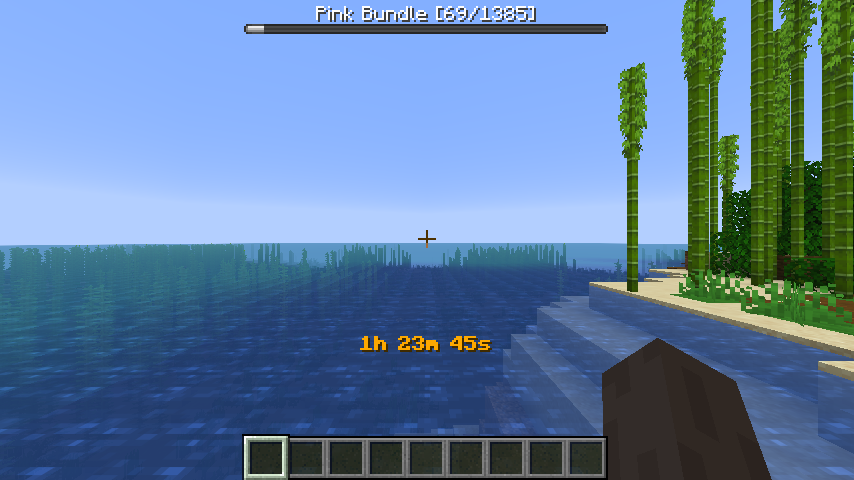
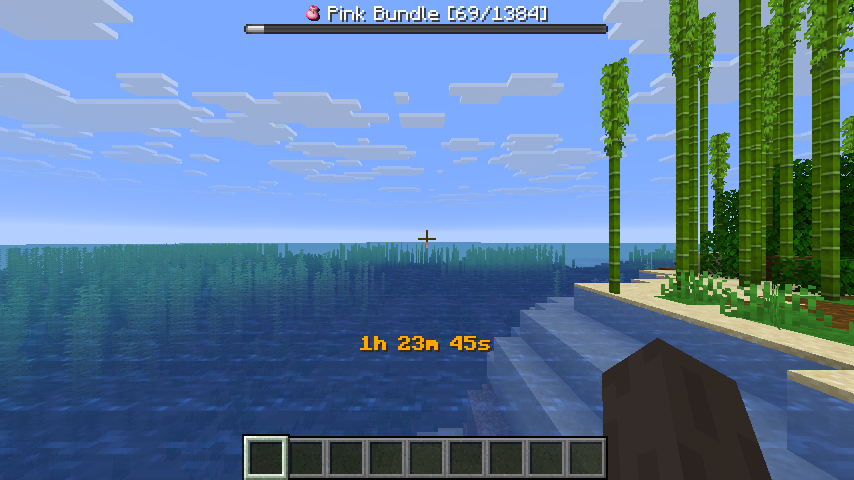
Release 1.3+1.21.11

diff --git a/src/main/java/x170/all_items/command/AllItemsCommand.java b/src/main/java/x170/all_items/command/AllItemsCommand.java
@@ -1,0 +1,94 @@
+package x170.all_items.command;
+
+import com.google.gson.JsonElement;
+import com.google.gson.JsonParser;
+import com.mojang.brigadier.CommandDispatcher;
+import com.mojang.serialization.JsonOps;
+import net.minecraft.commands.CommandBuildContext;
+import net.minecraft.commands.CommandSourceStack;
+import net.minecraft.commands.Commands;
+import net.minecraft.core.Holder;
+import net.minecraft.network.chat.Component;
+import net.minecraft.server.dialog.Dialog;
+import net.minecraft.server.level.ServerPlayer;
+import net.minecraft.world.item.Item;
+import x170.all_items.AllItems;
+import x170.all_items.game.GameManager;
+
+import java.util.ArrayList;
+
+public class AllItemsCommand {
+    public static void register(CommandDispatcher<CommandSourceStack> dispatcher, CommandBuildContext commandBuildContext, Commands.CommandSelection commandSelection) {
+        dispatcher.register(Commands.literal("all-items")
+                .executes(context -> execute(context.getSource()))
+        );
+    }
+
+    private static int execute(CommandSourceStack source) {
+        ServerPlayer player = source.getPlayer();
+        // Send error message if the command was called by a non-player
+        if (player == null) {
+            source.sendFailure(Component.literal("Only players can use this command"));
+            return 0;
+        }
+
+        String dialogJSON = buildItemDialogJson(AllItems.CONFIG.obtainedItems);
+
+        try {
+            JsonElement json = JsonParser.parseString(dialogJSON);
+            Holder<Dialog> dialog = Dialog.CODEC.parse(JsonOps.INSTANCE, json).getOrThrow();
+            player.openDialog(dialog);
+        } catch (Exception e) {
+            source.sendFailure(Component.literal("Failed to open dialog: " + e.getMessage()));
+            return 0;
+        }
+
+        return 1;
+    }
+
+    private static String buildItemDialogJson(ArrayList<Item> items) {
+        StringBuilder bodyBuilder = new StringBuilder();
+
+        for (int i = 0; i < items.size(); i++) {
+            Item item = items.get(i);
+
+            bodyBuilder.append("""
+                    {
+                      "type": "minecraft:item",
+                      "item": {
+                        "id": "%s"
+                      },
+                      "description": {
+                        "translate": "%s",
+                        "hover_event": {
+                            "action": "show_text",
+                            "value": "Item %d"
+                        }
+                      }
+                    },
+                    
+                    """.formatted(
+                    item.toString(),
+                    item.getDescriptionId(),
+                    i + 1
+            ));
+        }
+
+        String body = bodyBuilder.toString();
+        if (!body.isEmpty()) body = body.substring(0, body.length() - 3); // Remove last comma and newline
+
+        return """
+                {
+                  "type": "minecraft:notice",
+                  "title": "All-Items: Obtained Items [%d/%d]",
+                  "body": [
+                    %s
+                  ]
+                }
+                """.formatted(
+                AllItems.CONFIG.obtainedItems.size(),
+                GameManager.getTotalItemCount(),
+                body
+        );
+    }
+}

diff --git a/src/main/java/x170/all_items/game/GameManager.java b/src/main/java/x170/all_items/game/GameManager.java
@@ -124,10 +124,14 @@ public abstract class GameManager {
         Component bossBarName = getItemSprite(AllItems.CONFIG.activeItem).copy()
                 .append(Component.translatable(AllItems.CONFIG.activeItem.getDescriptionId()))
                 .append(Component.literal(additionalInfo))
-                .append(Component.literal(" [" + (AllItems.CONFIG.obtainedItems.size()) + "/" + (AllItems.CONFIG.obtainedItems.size() + unobtainedItems.size()) + "]"));
+                .append(Component.literal(" [" + AllItems.CONFIG.obtainedItems.size() + "/" + getTotalItemCount() + "]"));
 
         bossBar.setName(bossBarName);
-        bossBar.setProgress((float) AllItems.CONFIG.obtainedItems.size() / (AllItems.CONFIG.obtainedItems.size() + unobtainedItems.size()));
+        bossBar.setProgress((float) AllItems.CONFIG.obtainedItems.size() / getTotalItemCount());
+    }
+
+    public static int getTotalItemCount() {
+        return AllItems.CONFIG.obtainedItems.size() + unobtainedItems.size() + (AllItems.CONFIG.activeItem != null ? 1 : 0);
     }
 
     private static void playSoundToAllPlayers(SoundEvent soundEvent) {
@@ -151,7 +155,7 @@ public abstract class GameManager {
 
     private static void showTimerToAllPlayers() {
         // Show the timer in every player's actionbar
-        Component text = Component.literal(Timer.getTimeString()).withStyle(ChatFormatting.GOLD, ChatFormatting.BOLD);
+        Component text = Component.literal(Timer.getTimeString()).withStyle(Timer.isPaused() ? ChatFormatting.RED : ChatFormatting.GOLD, ChatFormatting.BOLD);
         AllItems.SERVER.getPlayerList().getPlayers().forEach(
                 player -> player.displayClientMessage(text, true)
         );

diff --git a/src/main/java/x170/all_items/AllItems.java b/src/main/java/x170/all_items/AllItems.java
@@ -9,6 +9,7 @@ import net.minecraft.core.registries.BuiltInRegistries;
 import net.minecraft.server.MinecraftServer;
 import org.slf4j.Logger;
 import org.slf4j.LoggerFactory;
+import x170.all_items.command.AllItemsCommand;
 import x170.all_items.command.TimerCommand;
 import x170.all_items.config.GameConfig;
 import x170.all_items.event.PlayerInventoryChangedCallback;
@@ -28,10 +29,12 @@ public class AllItems implements ModInitializer {
                 BuiltInRegistries.ITEM.stream()
                         .filter(item -> !CONFIG.obtainedItems.contains(item))
                         .filter(item -> !CONFIG.unobtainableItems.contains(item))
+                        .filter(item -> !item.equals(CONFIG.activeItem))
                         .toList()
         );
 
         CommandRegistrationCallback.EVENT.register(TimerCommand::register);
+        CommandRegistrationCallback.EVENT.register(AllItemsCommand::register);
         PlayerInventoryChangedCallback.EVENT.register(GameManager::checkItem);
 
         ServerLifecycleEvents.SERVER_STARTED.register(this::onServerStarted);

diff --git a/src/main/java/x170/all_items/config/GameConfig.java b/src/main/java/x170/all_items/config/GameConfig.java
@@ -36,6 +36,7 @@ public class GameConfig {
         add(Items.COMMAND_BLOCK_MINECART);
         add(Items.COMMAND_BLOCK);
         add(Items.DEBUG_STICK);
+        add(Items.DIRT_PATH);
         add(Items.END_PORTAL_FRAME);
         add(Items.FARMLAND);
         add(Items.FROGSPAWN);

diff --git a/README.md b/README.md
@@ -16,7 +16,12 @@ The mod is multiplayer compatible and designed to be played on a multiplayer ser
 
 ## Commands
 
+- `/all-items` - Show all obtained items in a custom dialog (see below)
 - `/timer` - Pause or resume the game timer
+
+## All Items Dialog
+
+![All Items Dialog](images/All-Items-Dialog.png)<br>
 
 ## Config
 
